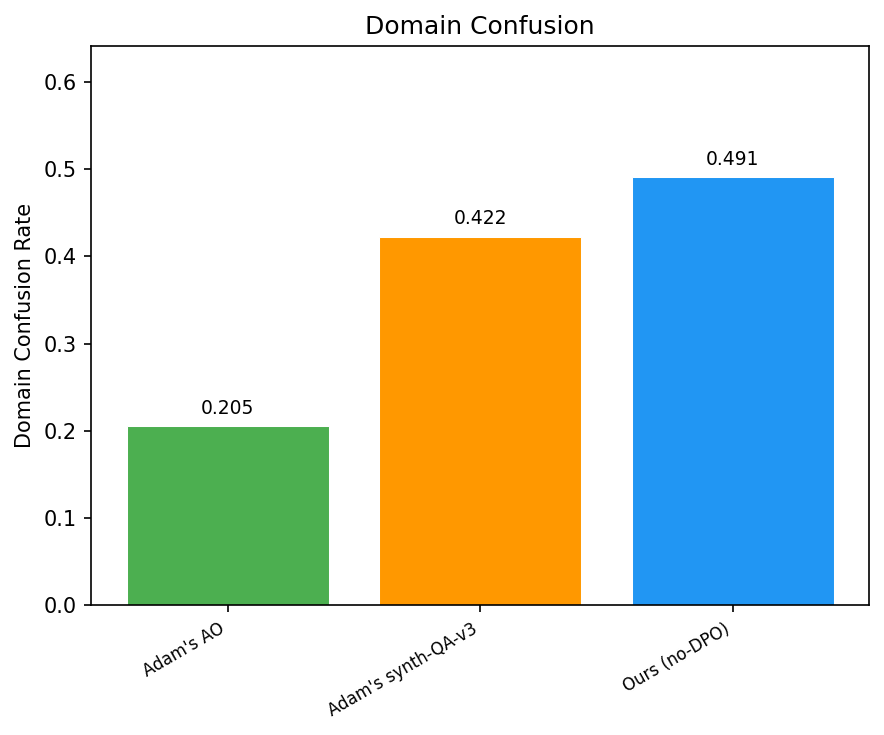
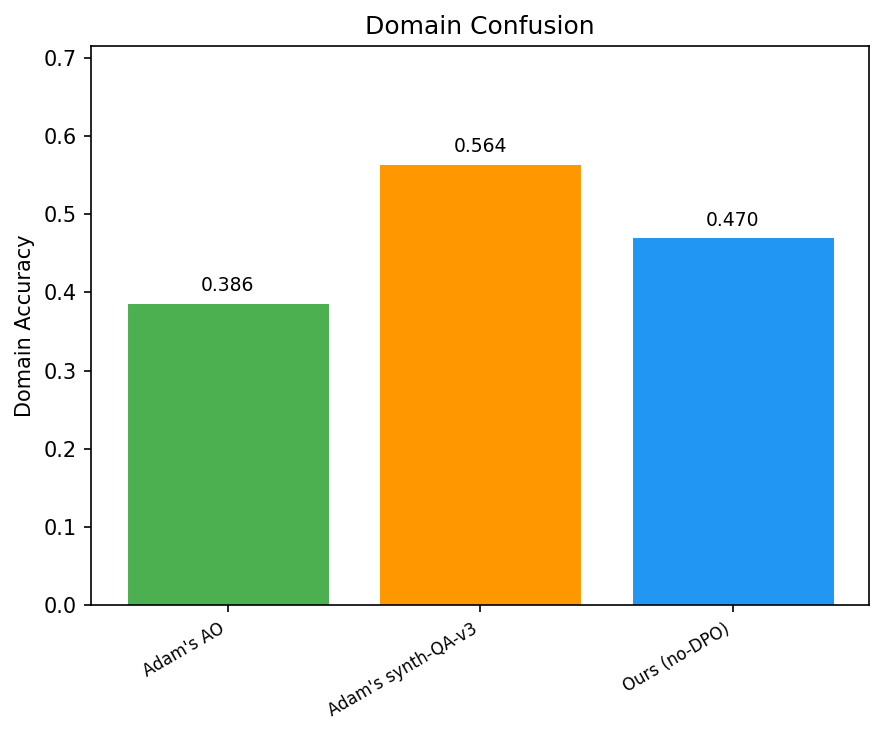
AObench: show domain accuracy instead of confusion rate (higher is better)

diff --git a/AObench/report.py b/AObench/report.py
@@ -68,7 +68,7 @@ EVAL_METRIC_MAP: dict[str, tuple[str, str, bool]] = {
     "taboo": ("accuracy", "Accuracy", True),
     "personaqa": ("accuracy", "Accuracy", True),
     "vagueness": ("specificity_rate", "Non-Vagueness", True),
-    "domain_confusion": ("domain_confusion_rate", "Domain Confusion Rate", False),
+    "domain_confusion": ("domain_correct_specific_rate", "Domain Accuracy", True),
     "activation_sensitivity": ("activation_sensitivity", "Activation Sensitivity", True),
 }
 
